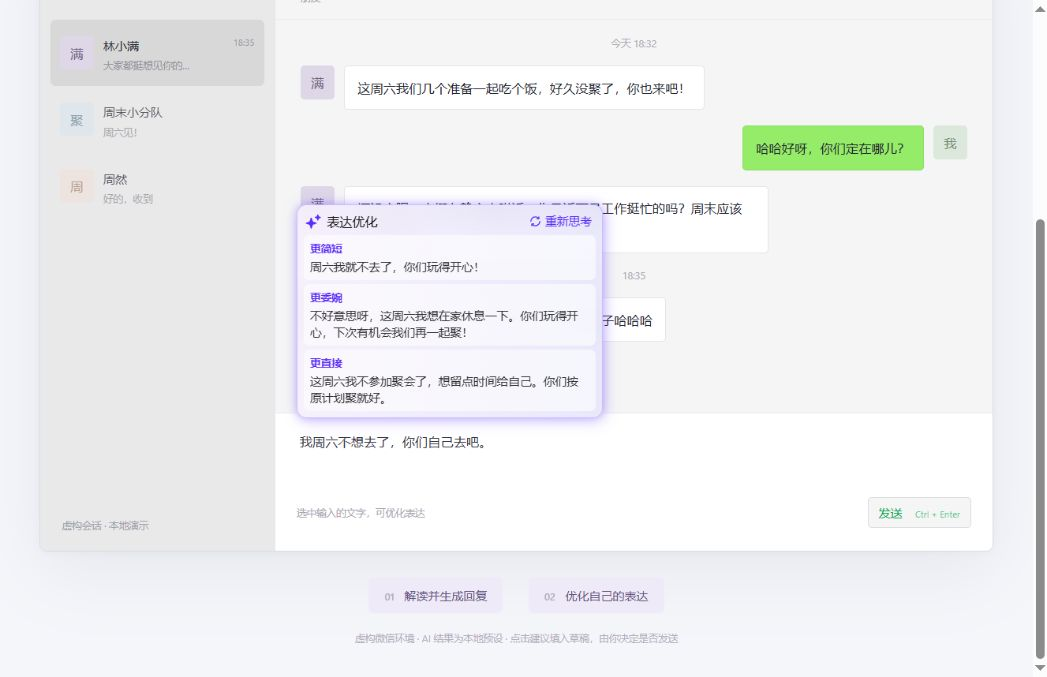
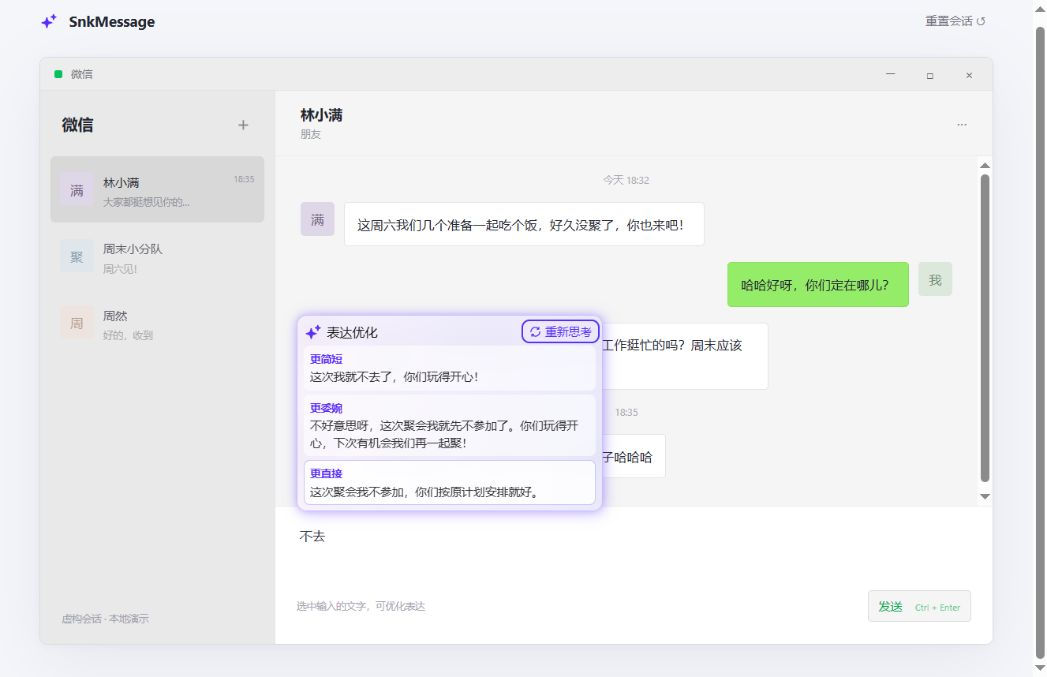
Handle short drafts with three labeled expression styles

diff --git a/src/ai.js b/src/ai.js
@@ -24,10 +24,12 @@ export const ai = {
  },
  async express({selectedText}) {
   await delay();
-  if (/周六不想去|你们自己去/.test(selectedText)) return {suggestionLabels:['更简短','更委婉','更直接'],suggestions:['周六我就不去了，你们玩得开心！','不好意思呀，这周六我想在家休息一下。你们玩得开心，下次有机会我们再一起聚！','这周六我不参加聚会了，想留点时间给自己。你们按原计划聚就好。']};
-  if (/不认同|不赞同/.test(selectedText)) return {suggestions:['我有不同的看法，想先了解具体问题。','对此我有些保留，能否先明确问题所在？','我暂时不太认同，希望先把具体问题讨论清楚。']};
-  // For other input preserve the user's wording; never invent a stance in this mock.
+  const suggestionLabels=['更简短','更委婉','更直接'];
+  if (/不去|不想去|不参加|不想参加|去不了|没法去|不能去|你们自己去/.test(selectedText)) return {suggestionLabels,suggestions:['这次我就不去了，你们玩得开心！','不好意思呀，这次聚会我就先不参加了。你们玩得开心，下次有机会我们再一起聚！','这次聚会我不参加，你们按原计划安排就好。']};
+  if (/不认同|不赞同/.test(selectedText)) return {suggestionLabels,suggestions:['我有不同看法。','这个想法我有些保留，希望能和你再讨论一下。','我不认同这个想法，建议先讨论清楚再决定。']};
+  // Other local demo inputs also expose all three styles, preserving the selected intent.
   const text=selectedText.trim().replace(/[。！？?！]+$/u,'');
-  return {suggestions:[`${text}。`,`我的想法是：${text}。`]};
+  const concise=text.replace(/^(我觉得|我认为|我的想法是[：:]?|其实|就是)\s*/u,'').replace(/，?(你们自己去吧|就这样吧)$/u,'')||text;
+  return {suggestionLabels,suggestions:[`${concise}。`,`我想和你商量一下：${text}。希望你能理解。`,`我的意思是：${text}。`]};
  }
 };

diff --git a/RECORDING.md b/RECORDING.md
@@ -22,4 +22,4 @@
 
 ## 验证
 
-现有 25 项测试通过。若 Windows 沙箱限制子进程，可执行 `node --test --test-isolation=none tests/*.test.mjs`。页面已人工验证解读内展开回复、语气调整和点击建议填入草稿。
+现有 26 项测试通过。若 Windows 沙箱限制子进程，可执行 `node --test --test-isolation=none tests/*.test.mjs`。页面已人工验证解读内展开回复、语气调整和点击建议填入草稿。
